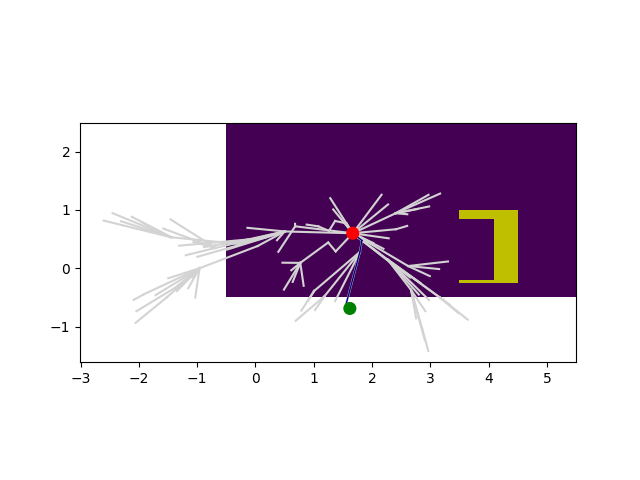
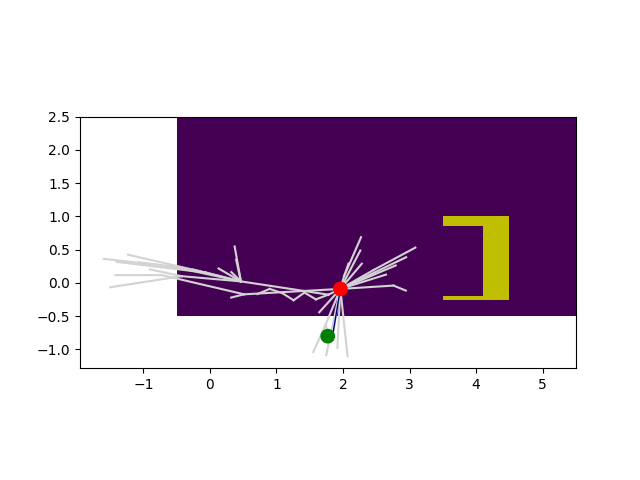
Add steering functions

diff --git a/our_code/main_while_drive.py b/our_code/main_while_drive.py
@@ -52,9 +52,8 @@ def receive_new_frame(data_frame: DataFrame):
             if ms.id_num == 605:
                 # Handle the chaser's data
                 c_pos, c_rot, c_rad = chaser_data_handling.handle_frame(ms, "ctf_car")
-                print(f"Chaser pos: {c_pos}, Chaser rot: {c_rot}, Chaser rad: {c_rad}")
-                print(f"Chaser rad: {c_rad}")
-                # print(f"Type of c_pos600: {type(c_pos)}")
+                #print(f"Chaser rad: {c_rad}")
+                #print(f"Type of c_pos600: {type(c_pos)}")
             if ms.id_num == 604:
                 # Handle the target's data
                 t_pos, t_rot, t_rad = chaser_data_handling.handle_frame(ms, "ctf_cube")
@@ -75,7 +74,7 @@ def receive_new_frame(data_frame: DataFrame):
 
 
 streaming_client = NatNetClient(
-    server_ip_address="132.68.35.255",  # IP address of the OptiTrack server
+    server_ip_address="132.68.35.2",  # IP address of the OptiTrack server
     local_ip_address=socket.gethostbyname(socket.gethostname()),  # Local IP address
     use_multicast=False  # Use unicast instead of multicast for communication
 )
@@ -129,59 +128,60 @@ def GoToTarget(is_cube = True, curr_t_pos = t_pos):
     time.sleep(1)
 
 
-# def steerToTarget(is_cube = True, curr_t_pos = t_pos):
-#     left, right, stop = 1, 2, 3
-#     turning_state = stop
-#     MAX_SPEED = 250
-#     MIN_SPEED = 10
-#     while True:
-#         streaming_client.update_sync()
-#         curr_c_pos, curr_c_rad = c_pos, c_rad
-#         if is_cube:
-#             curr_t_pos = t_pos
-#         angle = angle_between_points(curr_c_pos, curr_t_pos)
-#         normalized_angle = normalize_angle(angle - curr_c_rad)
-#         if abs(normalized_angle) < 0.07:
-#             send_go_request()
-#             break
+def steerToTarget(is_cube = True, curr_t_pos = t_pos):
+    left, right, stop = 1, 2, 3
+    turning_state = stop
+    MAX_SPEED = 250
+    MIN_SPEED = 80
+    while True:
+        streaming_client.update_sync()
+        curr_c_pos, curr_c_rad = c_pos, c_rad
+        if is_cube:
+            curr_t_pos = t_pos
+        angle = angle_between_points(curr_c_pos, curr_t_pos)
+        normalized_angle = normalize_angle(angle - curr_c_rad)
+        if abs(normalized_angle) < 0.07:
+            send_go_request()
+            break
 
-#         speed_ratio = max(0.0, 1.0 - abs(normalized_angle) / (math.pi / 2))  # normalized: 1.0 (straight) → 0.0 (sharp turn)
-#         reduced_speed = int(MAX_SPEED * speed_ratio)
-#         reduced_speed = max(reduced_speed, MIN_SPEED)
-#         if normalized_angle < 0:
-#             #if not turning_state == left:
-#             turning_state = left
-#             #send_lift_request(150)
-#             send_steer_request(left=reduced_speed, right=250)
-#         else:
-#             #if not turning_state == right:
-#             turning_state = right
-#             #send_right_request(150)
-#             send_steer_request(left=250, right=reduced_speed)
-#     time.sleep(1)
+        speed_ratio = max(0.0, 1.0 - abs(normalized_angle) / (math.pi / 2))  # normalized: 1.0 (straight) → 0.0 (sharp turn)
+        reduced_speed = int(MAX_SPEED * speed_ratio)
+        reduced_speed = max(reduced_speed, MIN_SPEED)
+        if normalized_angle < 0:
+            #if not turning_state == left:
+            turning_state = left
+            #send_lift_request(150)
+            send_steer_request(left=reduced_speed, right=250)
+        else:
+            #if not turning_state == right:
+            turning_state = right
+            #send_right_request(150)
+            send_steer_request(left=250, right=reduced_speed)
+    time.sleep(1)
 
-# def GoToTargetWithSteer(is_cube = True, curr_t_pos = t_pos):
-#     if dist(c_pos[0], curr_t_pos[0], c_pos[2], curr_t_pos[2]) >= 0.15:
-#         send_go_request()
-#         while True:
-#             streaming_client.update_sync()
-#             if is_cube:
-#                 curr_t_pos = t_pos
-#             if dist(c_pos[0], curr_t_pos[0], c_pos[2], curr_t_pos[2]) < 0.15:
-#                 send_stop_request()
-#                 break
-#             angle = angle_between_points(c_pos, curr_t_pos)
-#             normalized_angle = normalize_angle(angle - c_rad)
-#             if abs(normalized_angle) > 1:
-#                 #send_stop_request()
-#                 steerToTarget(is_cube, curr_t_pos)
-#                 send_go_request()
-#             elif abs(normalized_angle) > 0.15:
-#                 #send_stop_request()
-#                 turnToTarget(is_cube, curr_t_pos)
-#                 send_go_request()
+def GoToTargetWithSteer(is_cube = True, curr_t_pos = t_pos):
+    distance = dist(c_pos[0], curr_t_pos[0], c_pos[2], curr_t_pos[2])
+    if distance >= 0.15:
+        send_go_request()
+        while True:
+            streaming_client.update_sync()
+            if is_cube:
+                curr_t_pos = t_pos
+            distance = dist(c_pos[0], curr_t_pos[0], c_pos[2], curr_t_pos[2])
+            if distance < 0.15:
+                send_stop_request()
+                break
+            angle = angle_between_points(c_pos, curr_t_pos)
+            normalized_angle = normalize_angle(angle - c_rad)
 
-#     time.sleep(1)
+            if abs(normalized_angle) > 0.15:
+                # if distance < 1:
+                #     turnToTarget(is_cube, curr_t_pos)
+                # else:
+                steerToTarget(is_cube, curr_t_pos)
+                send_go_request()
+
+    time.sleep(1)
 
 
 # Function get data where the  robot car and where the cube is and calculate the path to the cube
@@ -202,52 +202,6 @@ def get_path_to_target(start_pos, goal_pos):
     planner.planning_env.visualize_map(plan=plan, tree_edges=planner.tree.get_edges_as_states())
     return plan
     
-try:
-    send_servo_request(30)
-    with streaming_client:
-        streaming_client.request_modeldef()
-
-        streaming_client.update_sync()
-        #streaming_client.run_async()
-        time.sleep(1)  # Allow some time for the client to start and receive data
-        print("Streaming started. Waiting for data...")
-        plan = []
-        plan=get_path_to_target(c_pos, t_pos)
-
-        #iteration nover the plan
-        for i in range(len(plan) - 1):
-            go_to_pos = [plan[i+1][0],0, plan[i+1][1]]  # Add an extra element (e.g., 0) to go_to_pos
-            print("Current position:", go_to_pos)
-            turnToTarget(False, go_to_pos)
-            turnToTarget(False, go_to_pos)
-            GoToTarget(False, go_to_pos)
-
-        # turnToTarget()
-        # turnToTarget()
-        # GoToTarget()
-        print("Chaser is facing the target.")
-    
-        send_servo_request(57)
-        plan=get_path_to_target(c_pos, base_pos)
-        print("finished planening")
-        for i in range(len(plan) - 1):
-            go_to_pos = [plan[i+1][0],0, plan[i+1][1]]  # Add an extra element (e.g., 0) to go_to_pos
-            print("Current position:", go_to_pos)
-            turnToTarget(False, go_to_pos)
-            turnToTarget(False, go_to_pos)
-            GoToTarget(False, go_to_pos)
-        
-        # turnToTarget(False, base_pos)
-        # turnToTarget(False, base_pos)
-        # GoToTarget(False, base_pos)
-        print("KNOW WE CAN GO TO THE TARGET POSITION")
-
-        
-    send_servo_request(30)
-    print("c_pos: ", c_pos, "c_rot: ", c_rot, "c_rad: ", c_rad)
-    print("t_pos: ", t_pos, "t_rot: ", t_rot, "t_rad: ", t_rad)
-
-
 # try:
 #     send_servo_request(30)
 #     with streaming_client:
@@ -264,10 +218,9 @@ try:
 #         for i in range(len(plan) - 1):
 #             go_to_pos = [plan[i+1][0],0, plan[i+1][1]]  # Add an extra element (e.g., 0) to go_to_pos
 #             print("Current position:", go_to_pos)
-#             if i == 0:
-#                 turnToTarget(False, go_to_pos)
-#                 print("first turn to target")
-#             GoToTargetWithSteer(False, go_to_pos)
+#             turnToTarget(False, go_to_pos)
+#             turnToTarget(False, go_to_pos)
+#             GoToTarget(False, go_to_pos)
 
 #         # turnToTarget()
 #         # turnToTarget()
@@ -280,11 +233,9 @@ try:
 #         for i in range(len(plan) - 1):
 #             go_to_pos = [plan[i+1][0],0, plan[i+1][1]]  # Add an extra element (e.g., 0) to go_to_pos
 #             print("Current position:", go_to_pos)
-#             if i == 0:
-#                 turnToTarget(False, go_to_pos)
-#                 print("first turn to target")
-#             GoToTargetWithSteer(False, go_to_pos)
-
+#             turnToTarget(False, go_to_pos)
+#             turnToTarget(False, go_to_pos)
+#             GoToTarget(False, go_to_pos)
         
 #         # turnToTarget(False, base_pos)
 #         # turnToTarget(False, base_pos)
@@ -295,6 +246,57 @@ try:
 #     send_servo_request(30)
 #     print("c_pos: ", c_pos, "c_rot: ", c_rot, "c_rad: ", c_rad)
 #     print("t_pos: ", t_pos, "t_rot: ", t_rot, "t_rad: ", t_rad)
+
+# firas
+try:
+    send_servo_request(30)
+    with streaming_client:
+        streaming_client.request_modeldef()
+
+        streaming_client.update_sync()
+        #streaming_client.run_async()
+        time.sleep(1)  # Allow some time for the client to start and receive data
+        print("Streaming started. Waiting for data...")
+        plan = []
+        plan=get_path_to_target(c_pos, t_pos)
+
+        #iteration nover the plan
+        for i in range(len(plan) - 1):
+            go_to_pos = [plan[i+1][0],0, plan[i+1][1]]  # Add an extra element (e.g., 0) to go_to_pos
+            print("Current position:", go_to_pos)
+            if i == 0 or i == len(plan) - 2:
+                turnToTarget(False, go_to_pos)
+                print("first turn to target")
+            else:
+                steerToTarget(False, go_to_pos)
+            GoToTargetWithSteer(False, go_to_pos)
+
+        # turnToTarget()
+        # turnToTarget()
+        # GoToTarget()
+        print("Chaser is facing the target.")
+    
+        send_servo_request(57)
+        plan=get_path_to_target(c_pos, base_pos)
+        print("finished planening")
+        for i in range(len(plan) - 1):
+            go_to_pos = [plan[i+1][0],0, plan[i+1][1]]  # Add an extra element (e.g., 0) to go_to_pos
+            print("Current position:", go_to_pos)
+            if i == 0:
+                turnToTarget(False, go_to_pos)
+                print("first turn to target")
+            GoToTargetWithSteer(False, go_to_pos)
+
+        
+        turnToTarget(False, base_pos)
+        turnToTarget(False, base_pos)
+        GoToTarget(False, base_pos)
+        print("KNOW WE CAN GO TO THE TARGET POSITION")
+
+        
+    send_servo_request(30)
+    print("c_pos: ", c_pos, "c_rot: ", c_rot, "c_rad: ", c_rad)
+    print("t_pos: ", t_pos, "t_rot: ", t_rot, "t_rad: ", t_rad)
 
 
 

diff --git a/our_code/test_conticion.py b/our_code/test_conticion.py
@@ -49,6 +49,7 @@ def receive_new_frame(data_frame: DataFrame):
 
 
     for ms in data_frame.rigid_bodies:
+           
             
             if ms.id_num == 605:
                 # Handle the chaser's data
@@ -76,12 +77,20 @@ def receive_new_frame(data_frame: DataFrame):
 
 
 
+
+# Initialize the NatNetClient
 streaming_client = NatNetClient(
     server_ip_address="132.68.35.2",  # IP address of the OptiTrack server
     local_ip_address=socket.gethostbyname(socket.gethostname()),  # Local IP address
-    
     use_multicast=False  # Use unicast instead of multicast for communication
 )
+
+
+# Check if the client is connected
+if streaming_client.connected:
+    print("Successfully connected to the OptiTrack system.")
+else:
+    print("Failed to connect to the OptiTrack system. Please check the server IP and network settings.")
 
 
 
@@ -181,24 +190,24 @@ def plot_positions(car_positions, ctf_positions):
 
     
 try:
-    send_servo_request(30)
+    # send_servo_request(30)
     with streaming_client:
         streaming_client.request_modeldef()
 
         streaming_client.update_sync()
-        #streaming_client.run_async()
+        # streaming_client.run_async()
         time.sleep(1)  # Allow some time for the client to start and receive data
         print("Streaming started. Waiting for data...")
-        turnToTarget()
-        turnToTarget()
-        GoToTarget()
-        print("Chaser is facing the target.")
+    #     turnToTarget()
+    #     turnToTarget()
+    #     GoToTarget()
+    #     print("Chaser is facing the target.")
     
-        send_servo_request(60)
-        time.sleep(1)
-        turnToTarget(False, base_pos)
-        turnToTarget(False, base_pos)
-        GoToTarget(False, base_pos)
+    #     send_servo_request(60)
+    #     time.sleep(1)
+    #     turnToTarget(False, base_pos)
+    #     turnToTarget(False, base_pos)
+    #     GoToTarget(False, base_pos)
 
 
         

diff --git a/our_code/stam.py b/our_code/stam.py
@@ -43,6 +43,13 @@ def send_left_request():
         print("LEFT request sent. Response:", response.text)
     except Exception as e:
         print("Error sending LEFT request:", e)
+def send_steer_request(left=250, right = 250):
+    try:
+        response = requests.get(f"{ESP_IP}/steer?left="+str(left)+"&right="+str(right))
+        print("STEER request sent. Response:", response.text)
+    except Exception as e:
+        print("Error sending STEER request:", e)
+
 def angle_between_points(p1, p2):
     
     return math.atan2(p2[2] - p1[2], p2[0] - p1[0])
@@ -57,3 +64,21 @@ def angle_between_points(p1, p2):
 # send_right_request(70)
 # time.sleep(3)
 # send_right_request(250)
+# send_steer(250, 250)
+# print("Steering command sent. left: 250, right: 250")
+# time.sleep(3)
+# send_steer(250, 100)
+# print("Steering command sent. left: 250, right: 100")
+
+# #send steer commands, try speeds from 0 to 250 with steps of 10
+# for i in range(0, 250, 10):
+#     send_steer(250, i)
+#     time.sleep(0.1)  # small delay to observe the change in steering
+#     print(f"Steering command sent. left: 250, right: {i}")
+# # send steer commands, try speeds from 0 to 250 with steps of 1
+# for i in range(0, 250, 10):
+#     send_steer(i, 250)
+#     time.sleep(0.1)  # small delay to observe the change in steering
+#     print(f"Steering command sent. left: {i}, right: 250")
+
+# send_stop_request()
